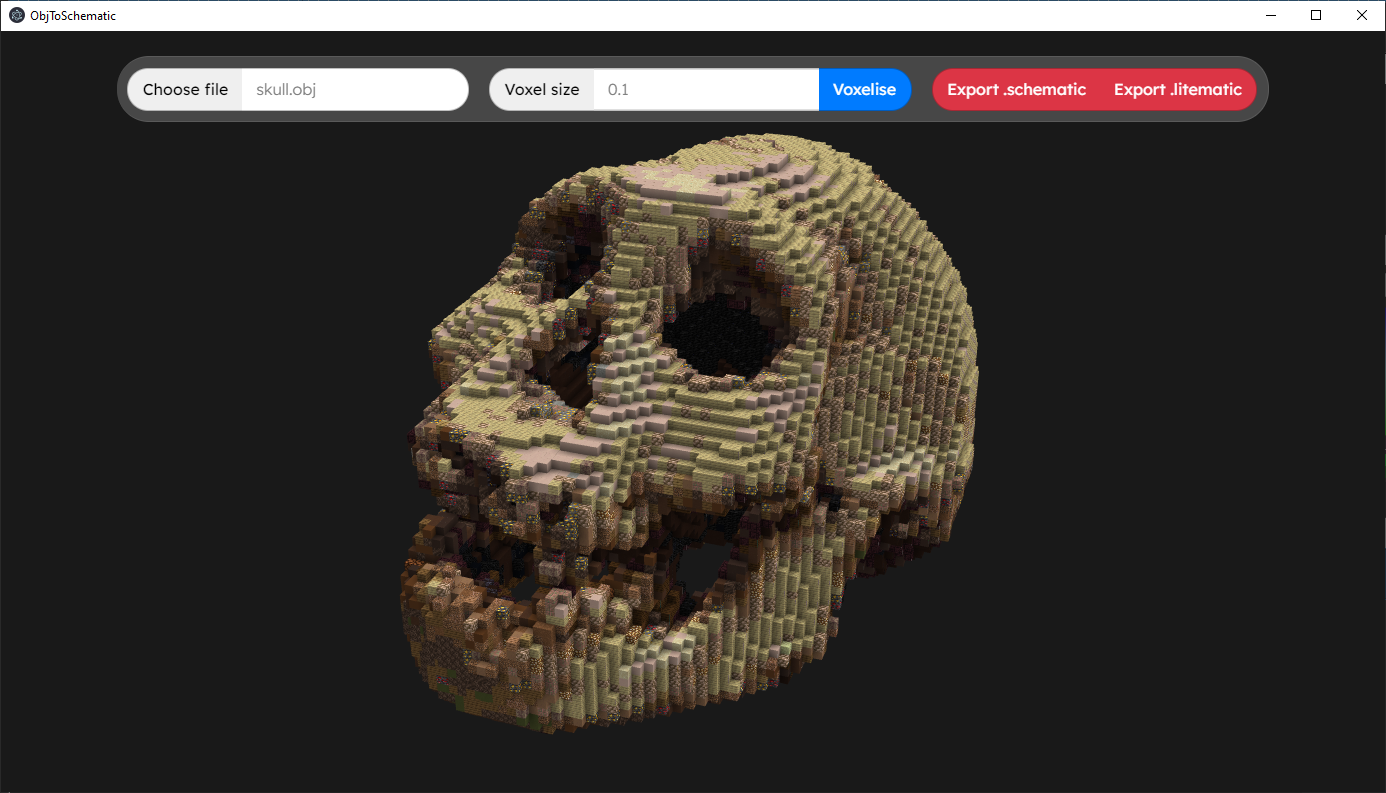
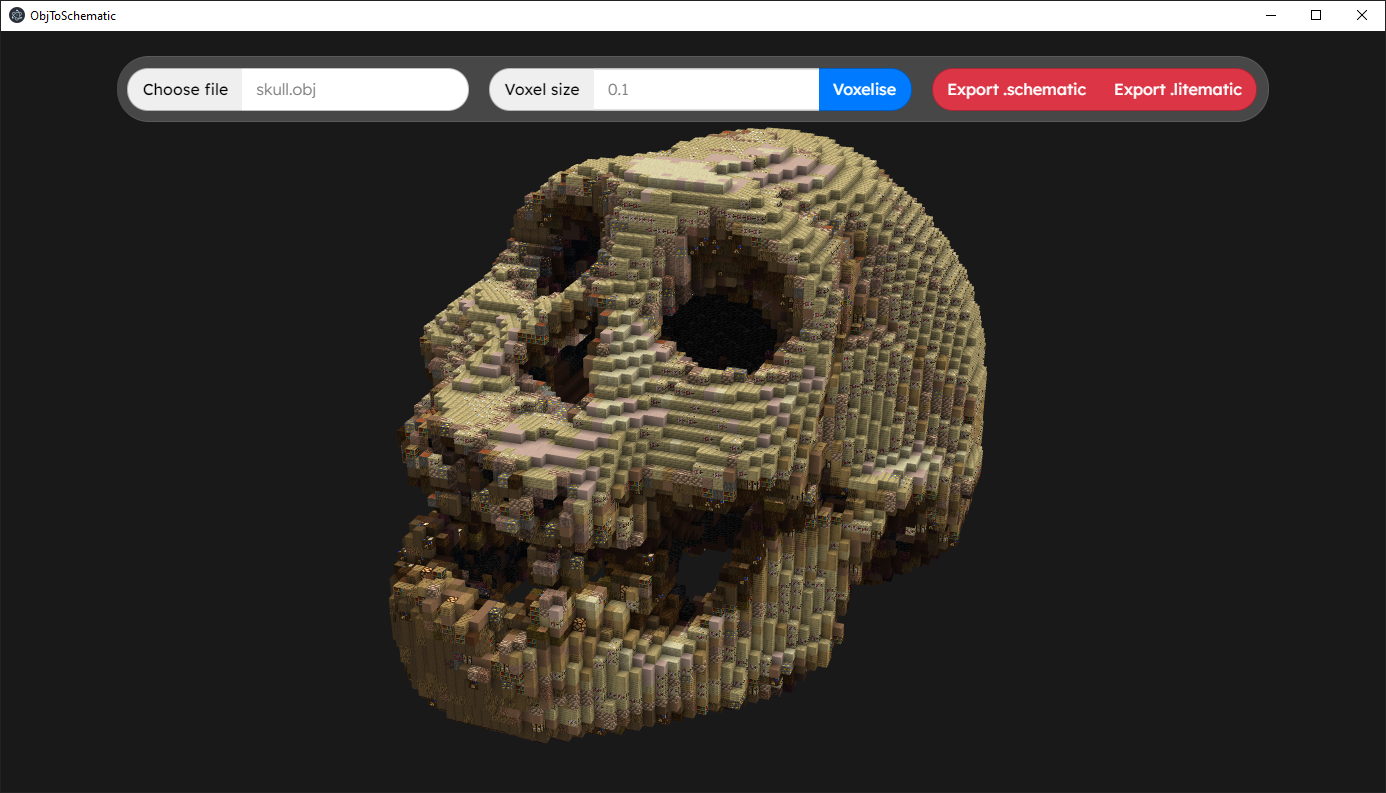
Minor changes

Changed region(s): [[0.2792, 0.1513, 0.7136, 0.9382]]

diff --git a/src/main.ts b/src/main.ts
@@ -24,7 +24,7 @@ function createWindow () {
         enableRemoteModule: true
         }
     });
-    //mainWindow.removeMenu();
+    mainWindow.removeMenu();
     
     
     // Load index.html

diff --git a/README.md b/README.md
@@ -45,7 +45,7 @@ Support for choosing the block palette is not yet supported. Instead, you can ed
   * Alpha texture maps
   * Transparent blocks
 * ✔ **Support for non-uniform block models** (i.e. not all sides have same texture e.g. Oak Log, Crafting Table)
-* ⌛ UI Redesign (use an actual UI framework) (see [redesign](https://github.com/LucasDower/ObjToSchematic/tree/redesign))
+* ✔ **UI Redesign**
   * Block palette (choose blocks to export with)
   * Options for toggling fallable blocks
 * Buffer refactor to support `OES_element_index_uint` WebGL extension (support for uint32 index buffers instead of uint16)
